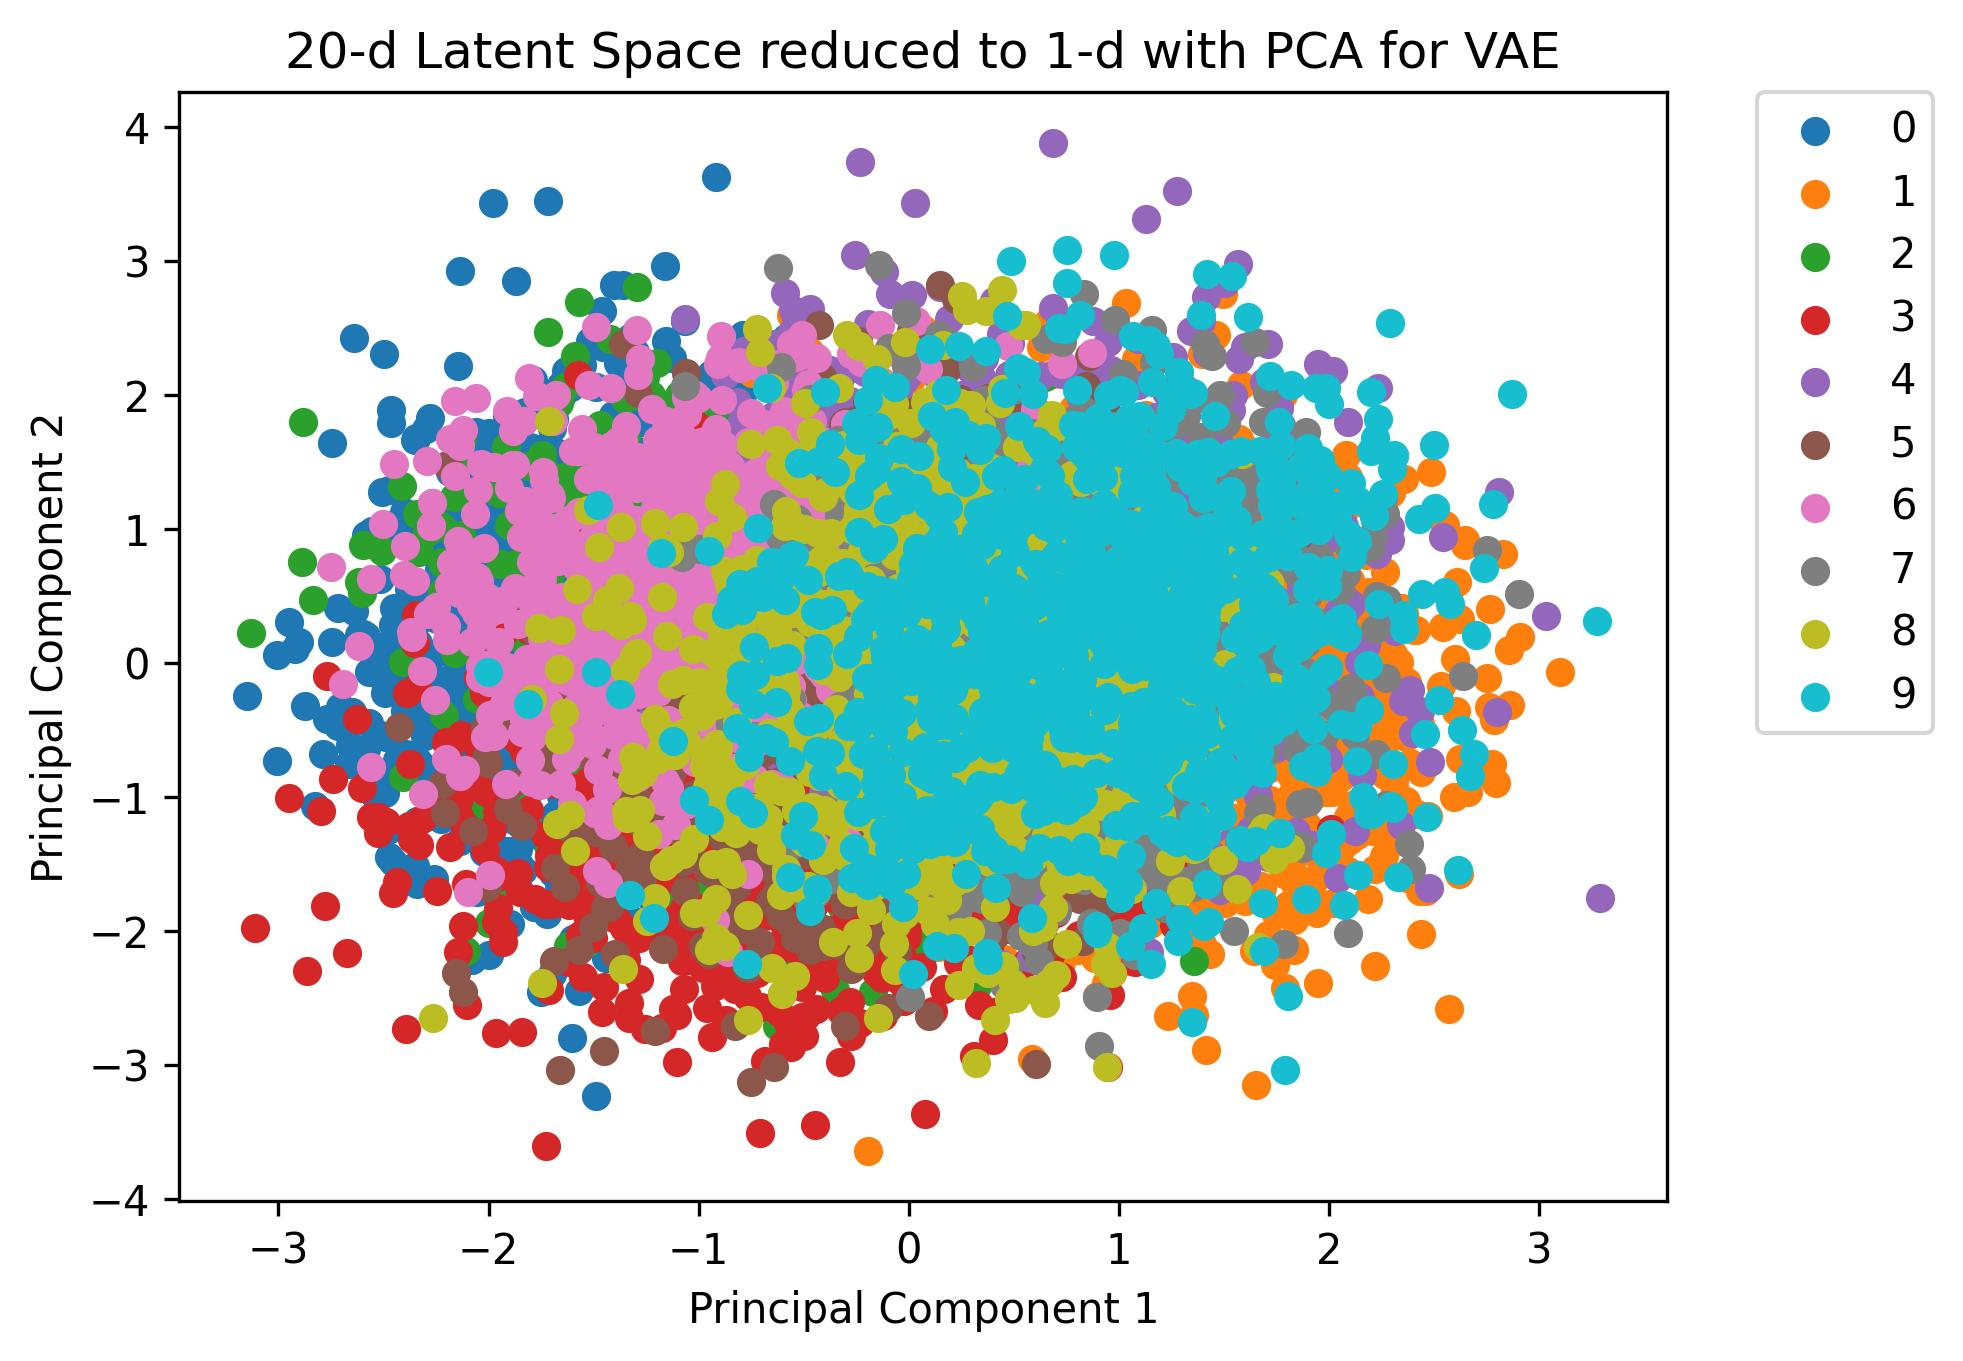
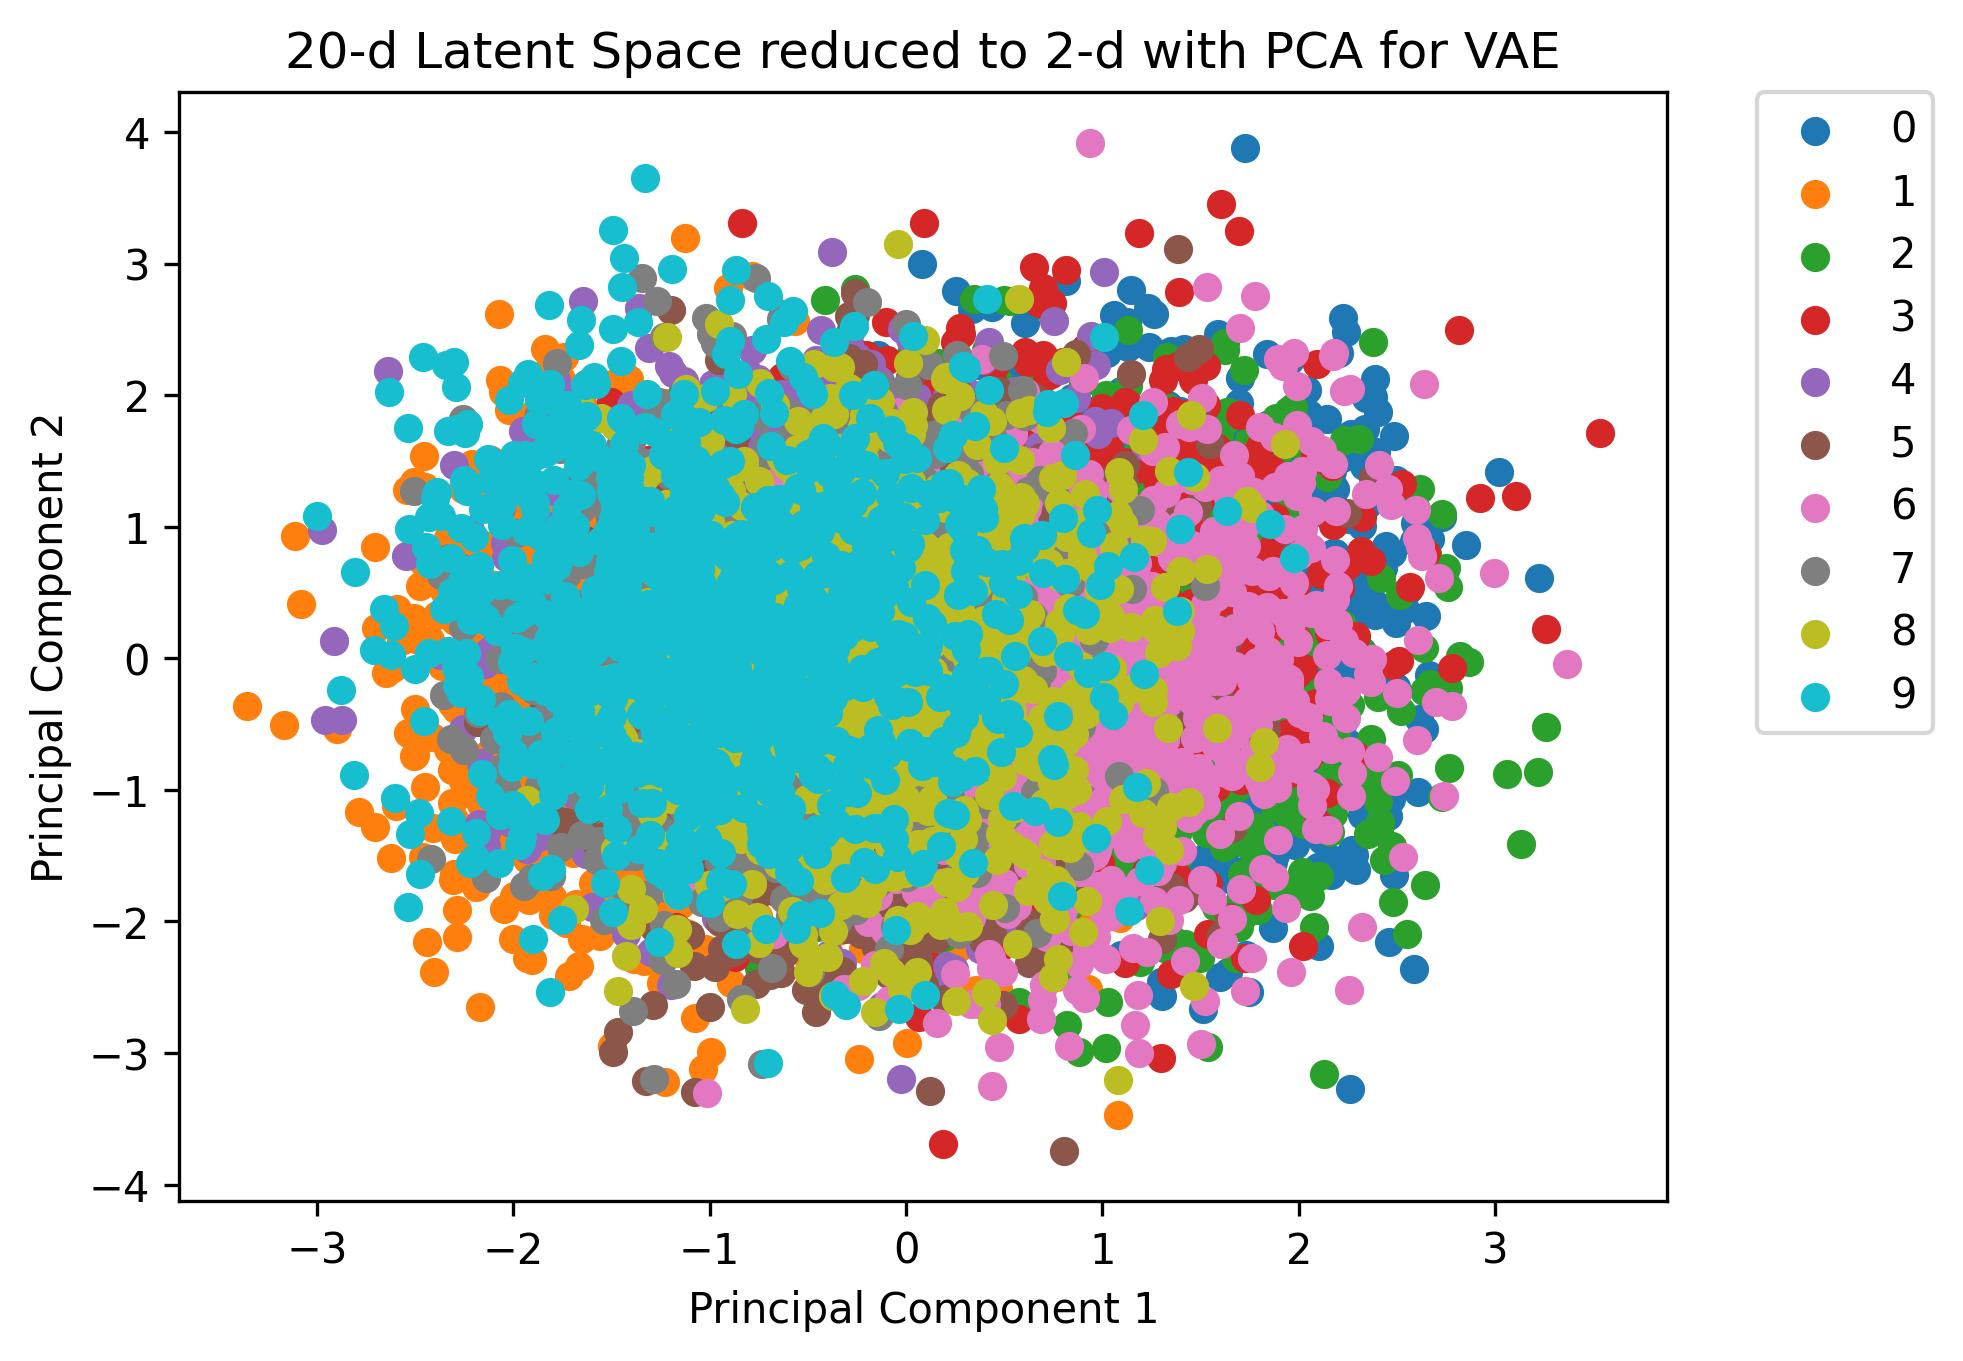
working on README

diff --git a/README.md b/README.md
@@ -205,20 +205,21 @@ learned to "disentangle" the digit classes.
 ### Visualizing Latent Spaces
 
 <p align="middle" float="left">
-  <img src="output/Autoencoder/plots/tsne_latent_space.jpg" width="67%" />
+  <img src="output/Autoencoder/plots/latent_space_scatter_2d.jpg" width="48%" />
+  <img src="output/Autoencoder/plots/latent_space_kde_1d.jpg" width="44.5%" />
 </p>
 <p align="middle" float="left">
-  <img src="output/VAE/plots/tsne_latent_space.jpg" width="70%" />
+  <img src="output/VAE/plots/latent_space_scatter_2d.jpg" width="48%" />
+  <img src="output/VAE/plots/latent_space_kde_1d.jpg" width="42.7%" />
 </p>
 <p align="middle" float="left">
-  <img src="output/ConditionalVAE/plots/tsne_latent_space.jpg" width="70%" />
+  <img src="output/ConditionalVAE/plots/latent_space_scatter_2d.jpg" width="48%" />
+  <img src="output/ConditionalVAE/plots/latent_space_kde_1d.jpg" width="45.9%" />
 </p>
 
 <p style="text-align: center;"> 
-  <i>2D embeddings of latent representations generated using PCA and t-SNE for
-    dimensionality reduction, for the Autoencoder (top), VAE (middle), and 
-    Conditional VAE (bottom).
+  <i>Latent representations in 2D (left) and density estimates in 1D (right),
+    for the Autoencoder (top), VAE (middle), and Conditional VAE (bottom).
   </i>
 </p>
 
-## Bonus: CIFAR-10
